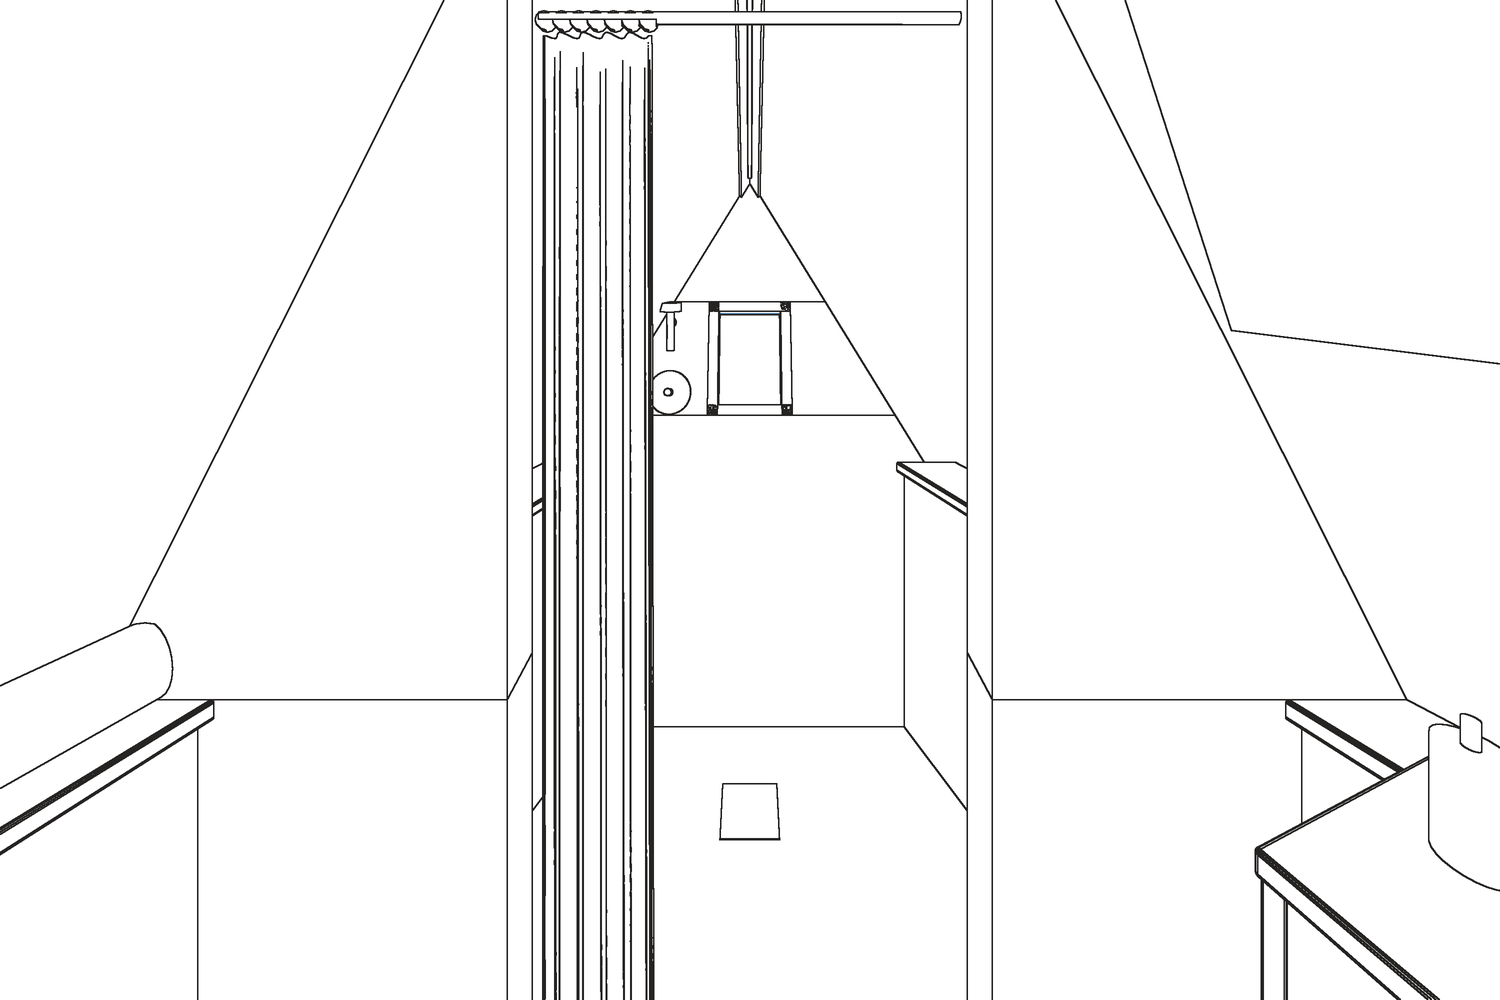
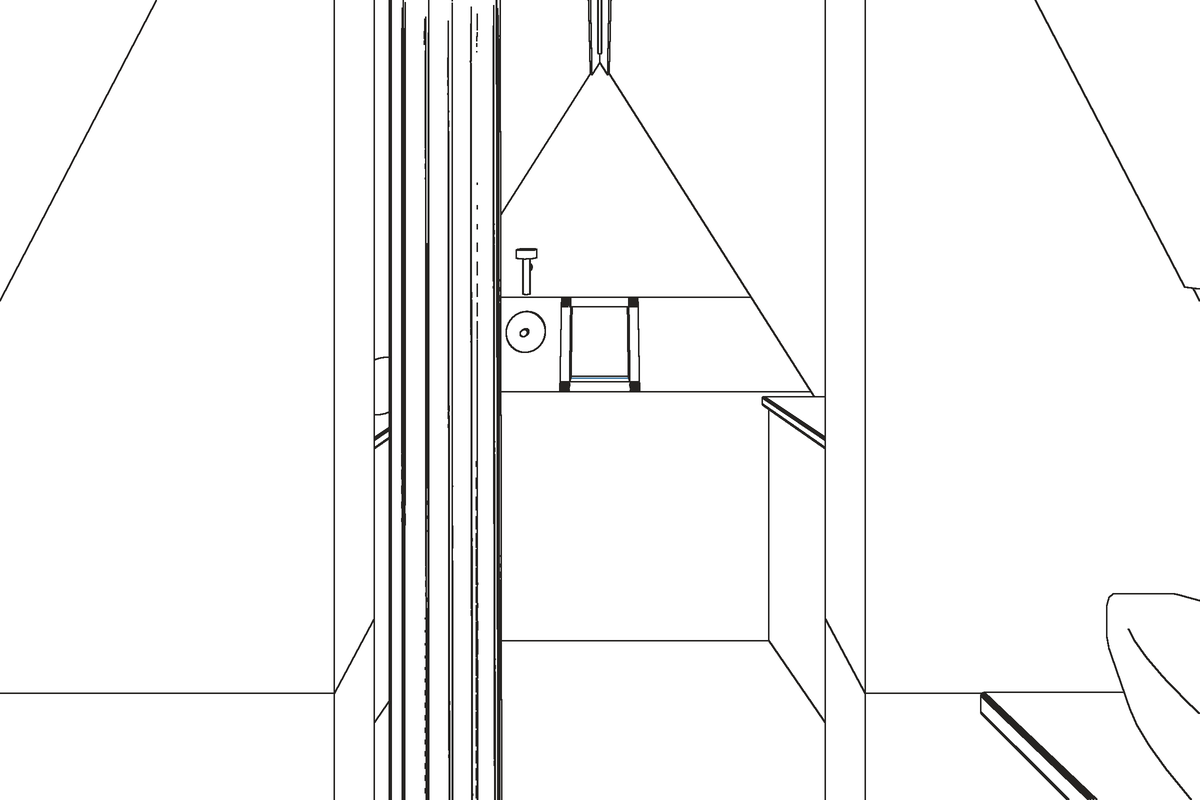
Redo the washroom renders on the measured room
All eleven renders rebuilt at 1200x800 / 64 samples on the 5'-8" deep room.

Three things had to be fixed first, all the same species of bug as the
hardcoded drawing labels - constants set when the room was 7 ft deep:

- The interior cameras were absolute depths. "From the shower" sat at y=6.35,
  outside the real back wall. v2, v3 and v4 now scale with D. v1 stays absolute
  because "from the door" is a spot in the door portal, not a fraction of depth,
  and its lens widens to 12.5 since the room is shallower.
- The cutaway camera was framed on the old room, leaving it small in frame; its
  target and lens now track D.
- grade.py's command line never composited the alpha, so the cutaway came out on
  black instead of the warm off-white it has always had. It now takes --cut,
  which composites and crops to content.

diff --git a/code/scene.py b/code/scene.py
@@ -1221,9 +1221,13 @@ def render_settings(samples, w, h, exposure=0.0, look="AgX - Medium High Contras
 
 
 import os
+# The cutaway was framed on a 7 ft deep room. Aim at the middle of the real one and
+# zoom in by the same ratio, so the room keeps filling the frame.
+_CUT_K = 7.0 / D
 CUT_CAM = tuple(float(v) for v in os.environ.get("CUT_CAM", "12.8,4.6,13.6").split(","))
-CUT_TGT = tuple(float(v) for v in os.environ.get("CUT_TGT", "-1.0,3.7,2.6").split(","))
-CUT_LENS = float(os.environ.get("CUT_LENS", "22"))
+CUT_TGT = tuple(float(v) for v in os.environ.get(
+    "CUT_TGT", f"-1.0,{3.7 / 7.0 * D:.3f},2.6").split(","))
+CUT_LENS = float(os.environ.get("CUT_LENS", f"{22 * (1 + (_CUT_K - 1) * 0.75):.1f}"))
 
 
 def pass_mat(kind):
@@ -1374,6 +1378,9 @@ def line_render(out, W, H, ss=2):
             pass
 
 
+# Camera depths are written as fractions of D so they follow the room. They were set
+# when D was 7.0; the measured extension is 5.63, which put the "from the shower"
+# camera outside the back wall.
 def main():
     # works both as `python3 x.py args` and `blender -b --python x.py -- args`
     argv = sys.argv[sys.argv.index('--'):] if '--' in sys.argv else sys.argv
@@ -1391,22 +1398,24 @@ def main():
     build(P, cutaway=cut)
     exposure = 0.0
     if view in ("v1", "line_v1"):
-        camera((0.0, 0.95, 5.0), (90, 0, 0), 14.0, shift=(0, -0.17))
+        # "from the door" is an absolute spot in the door portal, not a fraction of
+        # depth; the lens widens a little because the room is shallower than it was.
+        camera((0.0, 0.95, 5.0), (90, 0, 0), 12.5, shift=(0, -0.17))
         setup_world("interior")
         window_light()
         exposure = -0.4
     elif view == "v4":
-        look_cam((1.45, 1.55, 4.8), (-1.7, 4.3, 2.4), 15.0)
+        look_cam((1.45, 1.55 / 7.0 * D, 4.8), (-1.7, 4.3 / 7.0 * D, 2.4), 15.0)
         setup_world("interior")
         window_light()
         exposure = -0.4
     elif view == "v3":
-        camera((0.0, 3.72, 4.9), (90, 0, 180), 13.0, shift=(0, -0.12))
+        camera((0.0, 3.72 / 7.0 * D, 4.9), (90, 0, 180), 12.0, shift=(0, -0.12))
         setup_world("interior")
         window_light()
         exposure = -0.4
     elif view == "v2":
-        camera((0.0, 6.35, 4.85), (90, 0, 180), 14.0, shift=(0, -0.14))
+        camera((0.0, 6.35 / 7.0 * D, 4.85), (90, 0, 180), 14.0, shift=(0, -0.14))
         setup_world("interior")
         window_light()
         exposure = -0.4
@@ -1425,9 +1434,9 @@ def main():
         structure(P)
     if view.startswith("line"):
         if view == "line_v1":
-            camera((0.0, 0.95, 5.0), (90, 0, 0), 14.0, shift=(0, -0.17))
+            camera((0.0, 0.95, 5.0), (90, 0, 0), 12.5, shift=(0, -0.17))
         elif view == "line_v2":
-            camera((0.0, 6.35, 4.85), (90, 0, 180), 14.0, shift=(0, -0.14))
+            camera((0.0, 6.35 / 7.0 * D, 4.85), (90, 0, 180), 14.0, shift=(0, -0.14))
         line_render(out, W, H)
         print("WROTE", out)
         return

diff --git a/code/grade.py b/code/grade.py
@@ -22,4 +22,9 @@ def grade(src, dst, contrast=1.06, sat=1.07, bg=None, crop=False):
         out = out.crop(box)
     out.save(dst, quality=92)
 if __name__ == "__main__":
-    grade(sys.argv[1], sys.argv[2])
+    # --cut: for renders on a transparent background (the cutaways). Composites a
+    # warm off-white behind the alpha and crops to the content, which is how the
+    # delivered cutaways have always looked.
+    cut = "--cut" in sys.argv
+    args = [a for a in sys.argv[1:] if not a.startswith("--")]
+    grade(args[0], args[1], bg=(242, 239, 233, 255) if cut else None, crop=cut)
